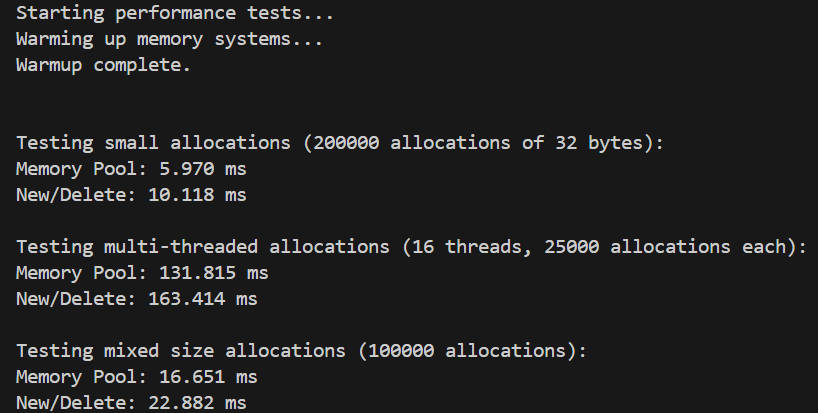
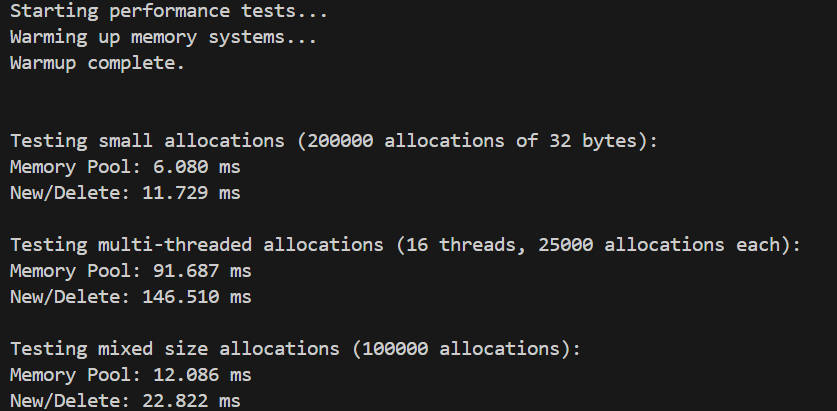
更新readme

diff --git a/README.md b/README.md
@@ -47,11 +47,11 @@
 ![测试截图](perf_test.jpg)
 
 平均测试数据：
-| 测试项目 (16 线程/混合场景) | 原生 `new/delete` | **XMemoryPool** | 性能提升 |
-| :--- | :--- | :--- | :--- |
-| **单线程极致分配** (20w 次, 32B) | 7.910 ms | **5.024 ms** | **+36.5%** |
-| **多线程高并发** (16 线程并发) | 158.780 ms | **128.700 ms** | **+18.9%** |
-| **混合大小分配** (10w 次) | 31.605 ms | **23.965 ms** | **+24.2%** |
+|测试项目|Memory Pool (平均耗时)|New/Delete (平均耗时)|性能提升 (%)|倍速 (X)|
+|---|---|---|---|---|
+|小对象分配 (32B)|**6.08 ms**|11.21 ms|**45.76%**|
+|多线程并发 (16 线程)|**110.12 ms**|137.19 ms|**19.73%**|
+|混合尺寸分配 (10W 次)|**16.06 ms**|28.26 ms|**43.17%**|
 
 ---
 
